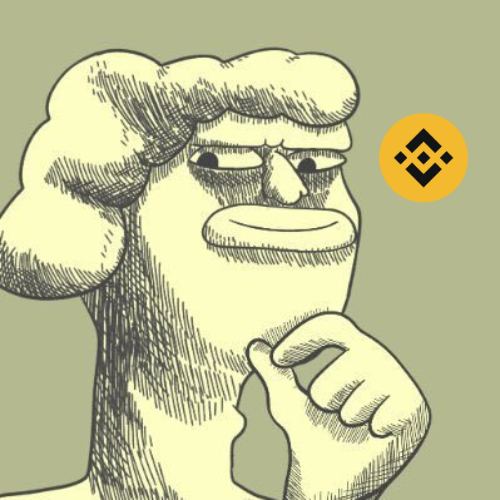
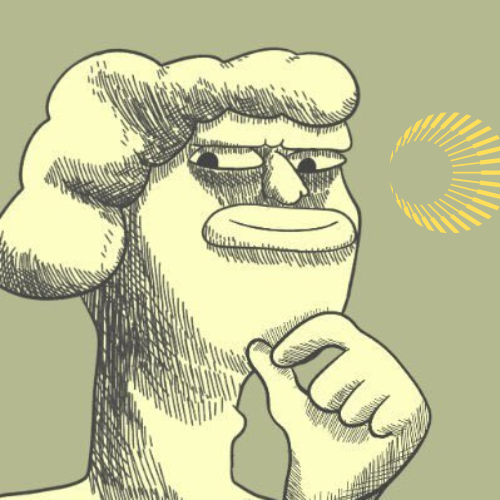
fix

Changed region(s): [[0.75, 0.21, 1.0, 0.48]]

diff --git a/index.html b/index.html
@@ -4,7 +4,7 @@
 <head>
     <meta charset="UTF-8">
     <meta name="viewport" content="width=device-width, initial-scale=1.0">
-    <title>MONDO on BSC</title>
+    <title>MONDO on Plasma</title>
     <link rel="icon" type="image/x-icon" href="images/head11.png">
     <link rel="stylesheet" href="css/index.css">
     <link rel="stylesheet" href="css/aos.css">
@@ -22,7 +22,7 @@
                 <p>MONDO </p>
             </div>
 
-            <a style="cursor: pointer;" href="https://four.meme/token/0xd6daaf44853ebca652d3cb1c59542a2bf00d4444" target="_blank">
+            <a style="cursor: pointer;" href="https://dyorswap.org/" target="_blank">
                 <button>
                     BUY MONDO
                     <img src="images/arrow.png" alt>
@@ -39,17 +39,17 @@
                 <p class="hover">*hover*</p>
                 <!-- <img style="width: 150px;border-radius: 50%;" src="images/ton3d.jpg" class="heads" alt> -->
                 <img src="images/head11.png" class="heads" alt>
-                <h1>MONDO ON BSC</h1>
+                <h1>MONDO ON Plasma</h1>
 
                 <div class="socials">
 
-                    <a href="https://t.me/MondoBSC_Channel" target="_blank">
+                    <a href="https://t.me/MondoXPL_Channel" target="_blank">
                         <div class="social">
                             <img src="images/telegram.png" alt>
                         </div>
                     </a>
 
-                    <a href="https://x.com/Mondo_BSC" target="_blank">
+                    <a href="https://x.com/MONDO_XPL" target="_blank">
                         <div class="social">
                             <img src="images/whitex.png" alt>
                         </div>
@@ -59,7 +59,7 @@
                             <img src="images/dexlogo.png" alt>
                         </div>
                     </a>
-                    <!-- <a href="https://www.puush.fun/coin/$BNB" target="_blank">
+                    <!-- <a href="https://www.puush.fun/coin/$XPL" target="_blank">
                         <div class="social">
                             <img style="width: 58px;" src="images/dedust.png" alt>
                         </div>
@@ -71,7 +71,7 @@
 
         <div class="about">
             <h1 class="heading">ABOUT MONDO</h1>
-            <h2 class="heading2">CA:0xd6daaf44853ebca652d3cb1c59542a2bf00d4444
+            <h2 class="heading2">CA:TBA
             </h2>
             <div class="leftnright">
                 <div class="left">
@@ -107,7 +107,7 @@
                             <p>2</p>
                         </div>
                         <p class="how">
-                            Get some $BNB
+                            Get some $XPL
                         </p>
                     </div>
                     <div class="step">
@@ -115,7 +115,7 @@
                             <p>3</p>
                         </div>
                         <p class="how">
-                            Swap $BNB for $MONDO
+                            Swap $XPL for $MONDO
                         </p>
                     </div>
                     <div class="step">
